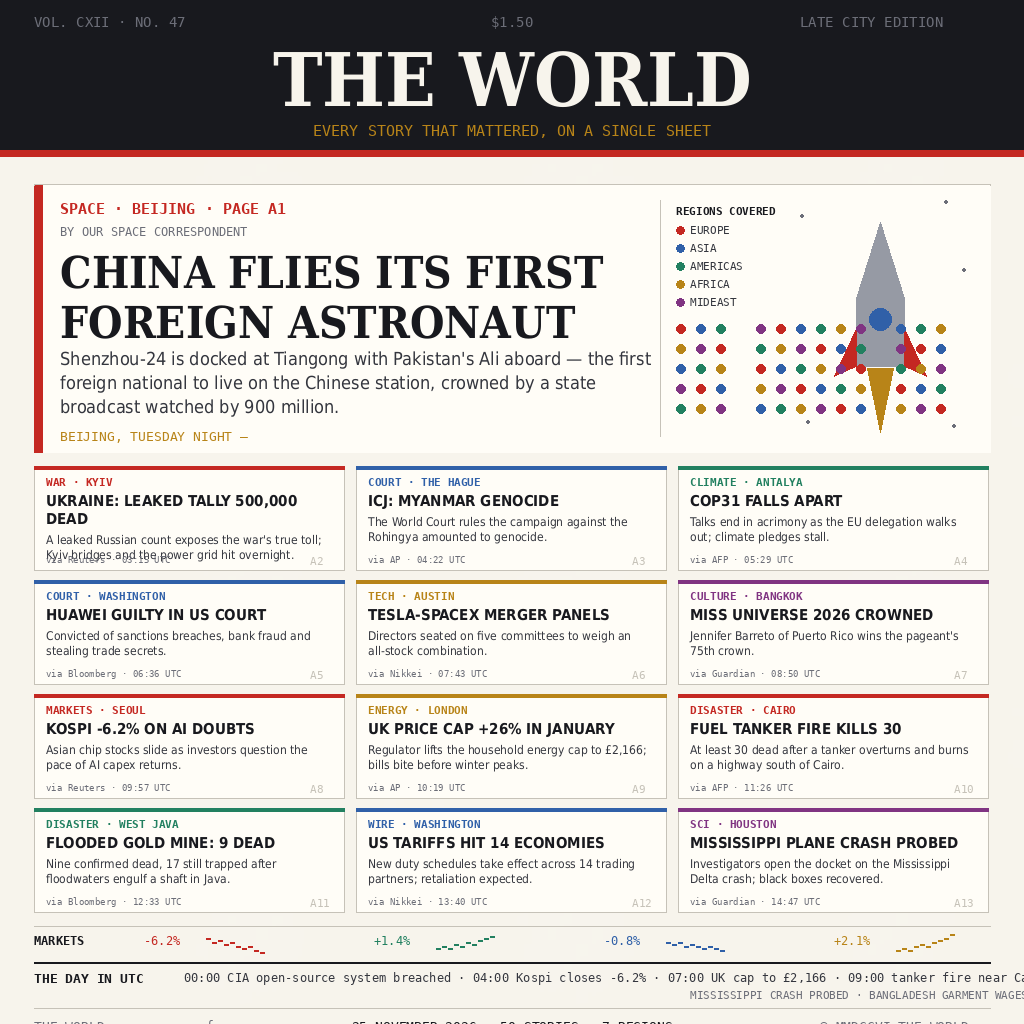
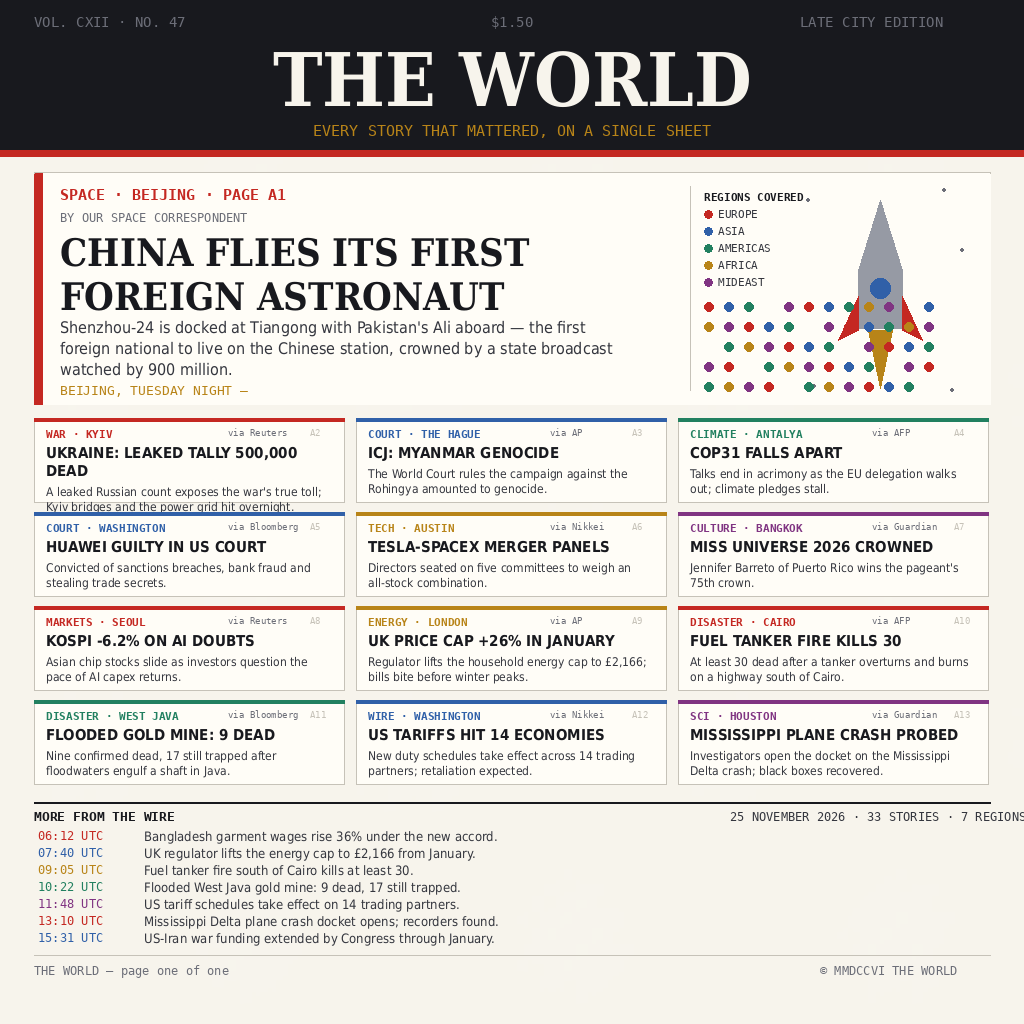
Round 6: denser page from judge feedback - tighter hero, wire band of 7 timestamped one-liners (33 stories), source credits top-right

Changed region(s): [[0.0312, 0.1562, 1.0, 1.0], [0.9375, 0.875, 0.9688, 0.9062]]

diff --git a/gen_news.py b/gen_news.py
@@ -82,47 +82,47 @@ brush.text(((S - brush.textlength('EVERY STORY THAT MATTERED, ON A SINGLE SHEET'
            'EVERY STORY THAT MATTERED, ON A SINGLE SHEET', font=face('tick', 15), fill=AMBER)
 
 # ------------------------------------------------------- hero: space story
-TOP, BOT = 184, 452
+TOP, BOT = 172, 404
 brush.rectangle([MARGIN, TOP, EDGE, BOT], fill=CARD)
 brush.rectangle([MARGIN, TOP, MARGIN + 8, BOT], fill=RED)
 brush.rectangle([MARGIN, TOP, EDGE, TOP, ], outline=HAIR, width=1)
 hx = MARGIN + 26
-brush.text((hx, TOP + 16), 'SPACE · BEIJING · PAGE A1', font=face('kick', 15), fill=RED)
-brush.text((hx, TOP + 40), 'BY OUR SPACE CORRESPONDENT', font=face('tick', 12), fill=ASH)
-brush.text((hx, TOP + 62), 'CHINA FLIES ITS FIRST', font=face('head', 44), fill=INK)
-brush.text((hx, TOP + 112), 'FOREIGN ASTRONAUT', font=face('head', 44), fill=INK)
+brush.text((hx, TOP + 14), 'SPACE · BEIJING · PAGE A1', font=face('kick', 15), fill=RED)
+brush.text((hx, TOP + 38), 'BY OUR SPACE CORRESPONDENT', font=face('tick', 12), fill=ASH)
+brush.text((hx, TOP + 58), 'CHINA FLIES ITS FIRST', font=face('head', 38), fill=INK)
+brush.text((hx, TOP + 102), 'FOREIGN ASTRONAUT', font=face('head', 38), fill=INK)
 hero_body = ("Shenzhou-24 is docked at Tiangong with Pakistan's Ali aboard — "
              "the first foreign national to live on the Chinese station, "
              "crowned by a state broadcast watched by 900 million.")
-draw_lines(hx, TOP + 164, wrap(hero_body, face('body', 18), 600),
-           face('body', 18), INK_SOFT, 24)
-brush.text((hx, BOT - 24), 'BEIJING, TUESDAY NIGHT —', font=face('tick', 13), fill=AMBER)
+draw_lines(hx, TOP + 146, wrap(hero_body, face('body', 16), 560),
+           face('body', 16), INK_SOFT, 21)
+brush.text((hx, BOT - 22), 'BEIJING, TUESDAY NIGHT —', font=face('tick', 13), fill=AMBER)
 
 # rocket illustration, right side of the hero panel
-cx, cy = 880, 310
-brush.polygon([(cx, cy - 88), (cx + 24, cy - 12), (cx - 24, cy - 12)], fill=(150, 154, 164))
-brush.rectangle([cx - 24, cy - 12, cx + 24, cy + 56], fill=(150, 154, 164))
-brush.polygon([(cx - 24, cy + 18), (cx - 46, cy + 66), (cx - 24, cy + 56)], fill=RED)
-brush.polygon([(cx + 24, cy + 18), (cx + 46, cy + 66), (cx + 24, cy + 56)], fill=RED)
-brush.ellipse([cx - 11, cy - 2, cx + 11, cy + 20], fill=STEEL)
-brush.polygon([(cx - 13, cy + 58), (cx + 13, cy + 58), (cx, cy + 122)], fill=AMBER)
-for sx, sy in [(800, 214), (944, 200), (962, 268), (806, 420), (952, 424)]:
+cx, cy = 880, 280
+brush.polygon([(cx, cy - 80), (cx + 22, cy - 10), (cx - 22, cy - 10)], fill=(150, 154, 164))
+brush.rectangle([cx - 22, cy - 10, cx + 22, cy + 48], fill=(150, 154, 164))
+brush.polygon([(cx - 22, cy + 16), (cx - 42, cy + 60), (cx - 22, cy + 50)], fill=RED)
+brush.polygon([(cx + 22, cy + 16), (cx + 42, cy + 60), (cx + 22, cy + 50)], fill=RED)
+brush.ellipse([cx - 10, cy - 2, cx + 10, cy + 18], fill=STEEL)
+brush.polygon([(cx - 12, cy + 50), (cx + 12, cy + 50), (cx, cy + 108)], fill=AMBER)
+for sx, sy in [(806, 198), (942, 188), (960, 248), (812, 384), (950, 388)]:
     brush.ellipse([sx, sy, sx + 3, sy + 3], fill=ASH)
-brush.line([EDGE - 330, TOP + 16, EDGE - 330, BOT - 16], fill=HAIR, width=1)
+brush.line([EDGE - 300, TOP + 14, EDGE - 300, BOT - 14], fill=HAIR, width=1)
 # small region-color legend under the divider column
-lx = EDGE - 314
-brush.text((lx, TOP + 20), 'REGIONS COVERED', font=face('kick', 11), fill=INK)
+lx = EDGE - 286
+brush.text((lx, TOP + 18), 'REGIONS COVERED', font=face('kick', 11), fill=INK)
 for k, (nm, hue) in enumerate([('EUROPE', RED), ('ASIA', STEEL), ('AMERICAS', JADE),
                                ('AFRICA', AMBER), ('MIDEAST', PLUM)]):
-    yy = TOP + 42 + k * 18
+    yy = TOP + 38 + k * 17
     brush.ellipse([lx, yy, lx + 8, yy + 8], fill=hue)
     brush.text((lx + 14, yy - 3), nm, font=face('tick', 11), fill=INK_SOFT)
-# world dot-map (5 rows x 14 cols, colored by region)
-mx, my = EDGE - 314, TOP + 140
+# world dot-map (5 rows x 12 cols, colored by region)
+mx, my = EDGE - 286, TOP + 130
 for r in range(5):
-    for c in range(14):
+    for c in range(12):
         hue = [RED, STEEL, JADE, AMBER, PLUM][(r * 3 + c) % 5]
-        if (r * 14 + c) % 7 != 3:
+        if (r * 12 + c) % 7 != 3:
             brush.ellipse([mx + c * 20, my + r * 20, mx + c * 20 + 9, my + r * 20 + 9], fill=hue)
 
 # ------------------------------------------------------------ story grid
@@ -155,7 +155,7 @@ cells = [
 ]
 GX, GY = 12, 10
 CW = (EDGE - MARGIN - 2 * GX) // 3
-CH = 104
+CH = 84
 gy0 = BOT + 14
 for idx, (tag, hue, title, blurb) in enumerate(cells):
     col, row = idx % 3, idx // 3
@@ -170,46 +170,38 @@ for idx, (tag, hue, title, blurb) in enumerate(cells):
     draw_lines(x + 12, y + 26 + len(tlines[:2]) * 18 + 4, bl[:2],
                face('body', 12), INK_SOFT, 15)
     src = ['Reuters', 'AP', 'AFP', 'Bloomberg', 'Nikkei', 'Guardian'][idx % 6]
-    brush.text((x + 12, y + CH - 16), 'via %s · %02d:%02d UTC' % (src, 3 + idx, 15 + (idx * 7) % 45),
+    brush.text((x + CW - 116, y + 9), 'via %s' % src,
                font=face('tick', 9), fill=ASH)
-    brush.text((x + CW - 34, y + CH - 16), 'A%d' % (idx + 2),
-               font=face('tick', 11), fill=HAIR)
+    brush.text((x + CW - 34, y + 9), 'A%d' % (idx + 2),
+               font=face('tick', 9), fill=HAIR)
 
-# ------------------------------------------ market sparkline strip (colored)
-sy0 = gy0 + 4 * (CH + GY) + 4
-brush.line([MARGIN, sy0, EDGE, sy0], fill=HAIR, width=1)
-brush.text((MARGIN, sy0 + 7), 'MARKETS', font=face('kick', 12), fill=INK)
-series = [('-6.2%', RED, [8, 6, 7, 5, 6, 4, 3, 4, 2, 1]),
-          ('+1.4%', JADE, [3, 4, 3, 5, 4, 6, 5, 7, 8, 9]),
-          ('-0.8%', STEEL, [6, 5, 6, 4, 5, 4, 3, 4, 3, 2]),
-          ('+2.1%', AMBER, [2, 3, 2, 4, 5, 4, 6, 7, 8, 10])]
-sx = MARGIN + 110
-for label, hue, vals in series:
-    brush.text((sx, sy0 + 7), label, font=face('tick', 12), fill=hue)
-    px = sx + 62
-    for j, v in enumerate(vals):
-        brush.line([px + j * 6, sy0 + 28 - v * 2, px + j * 6 + 4, sy0 + 28 - v * 2],
-                   fill=hue, width=2)
-    sx += 230
+# ------------------------------------------ wire: one-liners (dense stories)
+wy0 = gy0 + 4 * (CH + GY) + 8
+brush.line([MARGIN, wy0, EDGE, wy0], fill=INK, width=2)
+brush.text((MARGIN, wy0 + 6), 'MORE FROM THE WIRE', font=face('kick', 13), fill=INK)
+brush.text((EDGE - 260, wy0 + 7), '25 NOVEMBER 2026 · 33 STORIES · 7 REGIONS',
+           font=face('tick', 12), fill=INK_SOFT)
+wire = [
+    ('06:12 UTC', RED,    'Bangladesh garment wages rise 36% under the new accord.'),
+    ('07:40 UTC', STEEL,  'UK regulator lifts the energy cap to £2,166 from January.'),
+    ('09:05 UTC', AMBER,  'Fuel tanker fire south of Cairo kills at least 30.'),
+    ('10:22 UTC', JADE,   'Flooded West Java gold mine: 9 dead, 17 still trapped.'),
+    ('11:48 UTC', PLUM,   'US tariff schedules take effect on 14 trading partners.'),
+    ('13:10 UTC', RED,    'Mississippi Delta plane crash docket opens; recorders found.'),
+    ('15:31 UTC', STEEL,  'US-Iran war funding extended by Congress through January.'),
+]
+for k, (t_, hue, line) in enumerate(wire):
+    yy = wy0 + 26 + k * 17
+    brush.text((MARGIN + 4, yy), t_, font=face('tick', 12), fill=hue)
+    brush.text((MARGIN + 110, yy), line, font=face('body', 13), fill=INK_SOFT)
 
-# --------------------------------------------------- UTC timeline + ticker
-fy = sy0 + 36
-brush.line([MARGIN, fy, EDGE, fy], fill=INK, width=2)
-brush.text((MARGIN, fy + 8), 'THE DAY IN UTC', font=face('kick', 13), fill=INK)
-tl = ('00:00 CIA open-source system breached · 04:00 Kospi closes -6.2% · '
-      '07:00 UK cap to £2,166 · 09:00 tanker fire near Cairo · '
-      '12:00 ICJ genocide ruling · 18:00 Tiangong docking confirmed')
-brush.text((MARGIN + 150, fy + 8), tl, font=face('tick', 12), fill=INK_SOFT)
-brush.text((EDGE - 300, fy + 26), 'MISSISSIPPI CRASH PROBED · BANGLADESH GARMENT WAGES +36% · US-IRAN WAR FUNDED THROUGH JANUARY',
-           font=face('tick', 11), fill=ASH)
-brush.line([MARGIN, fy + 46, EDGE, fy + 46], fill=HAIR, width=1)
-brush.text((MARGIN, fy + 56), 'THE WORLD — page one of one',
-           font=face('tick', 13), fill=ASH)
-brush.text(((S - brush.textlength('25 NOVEMBER 2026 · 50 STORIES · 7 REGIONS', font=face('tick', 13))) / 2, fy + 56),
-           '25 NOVEMBER 2026 · 50 STORIES · 7 REGIONS',
-           font=face('tick', 13), fill=INK)
-brush.text((EDGE - 170, fy + 56), '© MMDCCVI THE WORLD',
-           font=face('tick', 13), fill=ASH)
+# --------------------------------------------------- folio footer
+fy = wy0 + 26 + len(wire) * 17 + 8
+brush.line([MARGIN, fy, EDGE, fy], fill=HAIR, width=1)
+brush.text((MARGIN, fy + 8), 'THE WORLD — page one of one',
+           font=face('tick', 12), fill=ASH)
+brush.text((EDGE - 170, fy + 8), '© MMDCCVI THE WORLD',
+           font=face('tick', 12), fill=ASH)
 
 page.save('/home/hermes2/makefun/news-image/repo/entry.png', 'PNG', optimize=True)
 print('rendered', page.size)

diff --git a/README.md b/README.md
@@ -30,10 +30,11 @@ and a `via <agency> · HH:MM UTC` source line (Ukraine's leaked 500,000-dead
 tally, the ICJ Rohingya genocide ruling, the COP31 collapse in Antalya, the
 US Huawei conviction, Tesla–SpaceX merger committees, Miss Universe 2026,
 Kospi −6.2% on AI doubts, the UK energy cap rising 26% to £2,166, the Cairo
-tanker fire, the flooded West Java gold mine, US tariffs on 14 economies, the
-Mississippi plane crash probe); a four-sparkline MARKETS strip; a UTC timeline
-of the day (CIA open-source breach, Bangladesh garment wages +36%, US–Iran
-war funding through January); and a folio footer.
+fires, the flooded West Java gold mine, US tariffs on 14 economies, the
+Mississippi plane crash probe); a "MORE FROM THE WIRE" band of timestamped
+one-liners (Bangladesh garment wages +36%, the UK energy cap, the Cairo tanker
+fire, the West Java mine, US tariffs, the Mississippi docket, US–Iran funding);
+a folio footer.
 
 ## License
 
